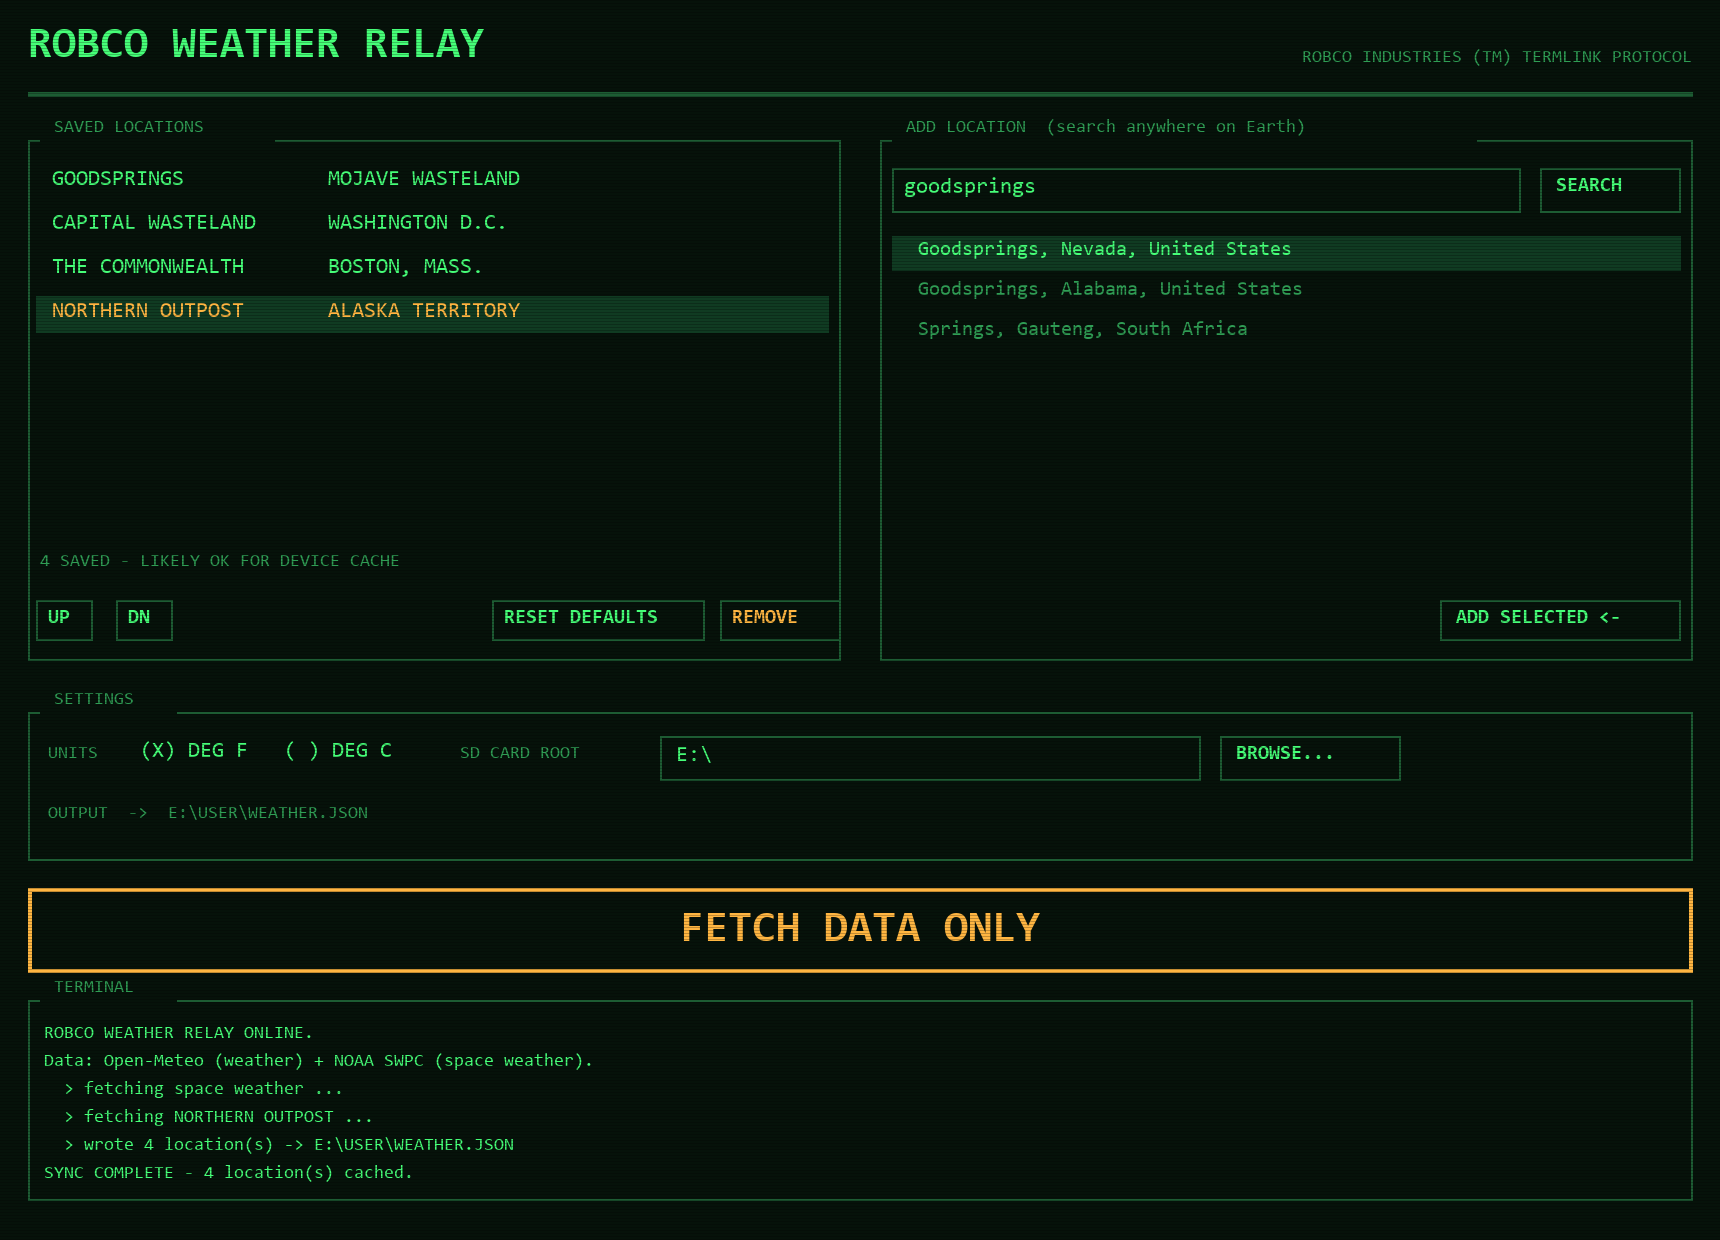
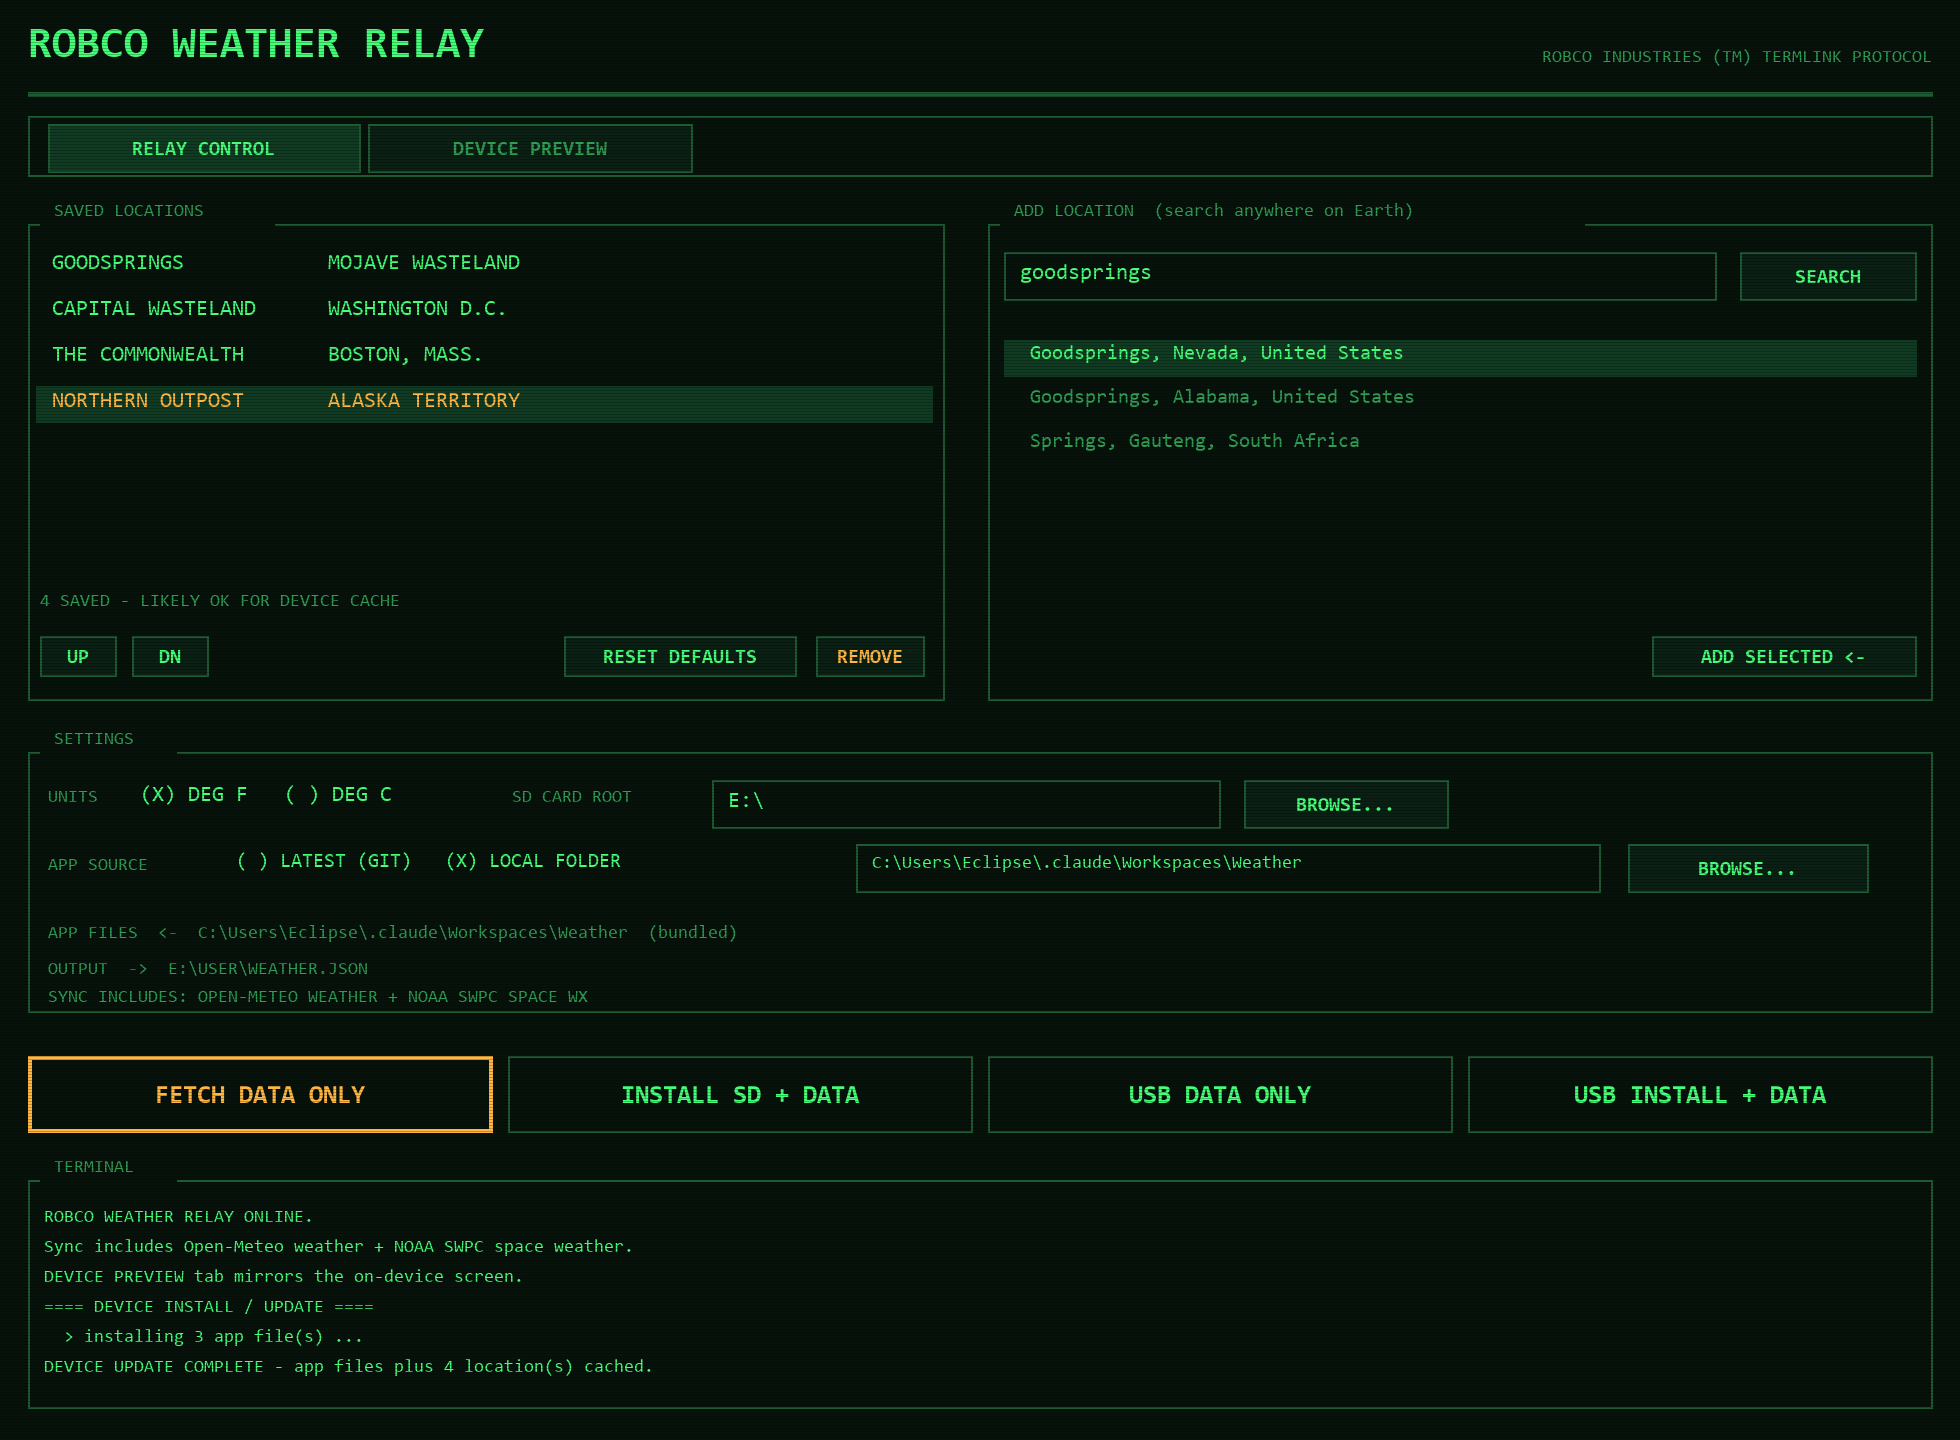
Update documentation previews

diff --git a/companion/render_preview.py b/companion/render_preview.py
@@ -538,11 +538,12 @@ def render_device(data, loc_i, view, caption, stale=False, item_mode=False, item
 # --------------------------------------------------------------- GUI mockup
 def render_gui():
     s = 2
-    W, H = 860 * s, 620 * s
+    W, H = 980 * s, 720 * s
     BGc, PANEL, EDGE, GREEN, DIMc, AMB, SELc = ((6, 18, 10), (11, 32, 20), (29, 92, 51),
         (70, 255, 120), (47, 157, 84), (255, 182, 66), (16, 59, 34))
     img = Image.new("RGB", (W, H), BGc)
     d = ImageDraw.Draw(img)
+    w = W / s
 
     def t(txt, x, y, size, fill=GREEN, bold=False, anchor="la"):
         d.text((x * s, y * s), txt, font=font(size * s, bold), fill=fill, anchor=anchor)
@@ -552,73 +553,94 @@ def render_gui():
         d.rectangle([(x0 + 6) * s, (y0 - 7) * s, (x0 + 18 + len(label) * 7) * s, (y0 + 4) * s], fill=BGc)
         t(" " + label + " ", x0 + 8, y0 - 11, 9, fill=DIMc)
 
+    def button(x0, y0, x1, y1, label, fill=GREEN, bold=True, selected=False):
+        d.rectangle([x0 * s, y0 * s, x1 * s, y1 * s],
+                    fill=SELc if selected else PANEL, outline=EDGE, width=s)
+        t(label, (x0 + x1) / 2, (y0 + y1) / 2 + 1, 10, fill=fill,
+          bold=bold, anchor="mm")
+
     # header
     t("ROBCO WEATHER RELAY", 14, 12, 22, bold=True)
-    t("ROBCO INDUSTRIES (TM) TERMLINK PROTOCOL", W / s - 14, 24, 9,
+    t("ROBCO INDUSTRIES (TM) TERMLINK PROTOCOL", w - 14, 24, 9,
       fill=DIMc, anchor="ra")
-    d.rectangle([14 * s, 46 * s, (W / s - 14) * s, 48 * s], fill=EDGE)
+    d.rectangle([14 * s, 46 * s, (w - 14) * s, 48 * s], fill=EDGE)
+
+    # notebook tabs
+    d.rectangle([14 * s, 58 * s, (w - 14) * s, 88 * s], outline=EDGE, width=s)
+    button(24, 62, 180, 86, "RELAY CONTROL", selected=True)
+    button(184, 62, 346, 86, "DEVICE PREVIEW", fill=DIMc, selected=False)
 
     # saved locations panel
-    panel(14, 70, 420, 330, "SAVED LOCATIONS")
+    panel(14, 112, 472, 350, "SAVED LOCATIONS")
     locs = ["GOODSPRINGS            MOJAVE WASTELAND",
             "CAPITAL WASTELAND      WASHINGTON D.C.",
             "THE COMMONWEALTH       BOSTON, MASS.",
             "NORTHERN OUTPOST       ALASKA TERRITORY"]
     for i, l in enumerate(locs):
-        yy = 84 + i * 22
+        yy = 126 + i * 23
         if i == 3:
-            d.rectangle([18 * s, (yy - 2) * s, 414 * s, (yy + 16) * s], fill=SELc)
+            d.rectangle([18 * s, (yy - 2) * s, 466 * s, (yy + 16) * s], fill=SELc)
         t(" " + l, 20, yy, 11, fill=(AMB if i == 3 else GREEN))
-    t("4 SAVED - LIKELY OK FOR DEVICE CACHE", 20, 276, 9, fill=DIMc)
-    for bx, lbl, bw, col in [(18, "UP", 28, GREEN), (58, "DN", 28, GREEN),
-                             (246, "RESET DEFAULTS", 106, GREEN),
-                             (360, "REMOVE", 60, AMB)]:
-        d.rectangle([bx * s, 300 * s, (bx + bw) * s, 320 * s], outline=EDGE, width=s)
-        t(lbl, bx + 6, 304, 10, fill=col, bold=True)
+    t("4 SAVED - LIKELY OK FOR DEVICE CACHE", 20, 296, 9, fill=DIMc)
+    button(20, 318, 58, 338, "UP")
+    button(66, 318, 104, 338, "DN")
+    button(282, 318, 398, 338, "RESET DEFAULTS")
+    button(408, 318, 462, 338, "REMOVE", fill=AMB)
 
     # add location panel
-    panel(440, 70, 846, 330, "ADD LOCATION  (search anywhere on Earth)")
-    d.rectangle([446 * s, 84 * s, 760 * s, 106 * s], outline=EDGE, width=s)
-    t("goodsprings", 452, 88, 11)
-    d.rectangle([770 * s, 84 * s, 840 * s, 106 * s], outline=EDGE, width=s)
-    t("SEARCH", 778, 88, 10, bold=True)
+    panel(494, 112, 966, 350, "ADD LOCATION  (search anywhere on Earth)")
+    d.rectangle([502 * s, 126 * s, 858 * s, 150 * s], outline=EDGE, width=s)
+    t("goodsprings", 510, 131, 11)
+    button(870, 126, 958, 150, "SEARCH")
     results = ["Goodsprings, Nevada, United States",
                "Goodsprings, Alabama, United States",
                "Springs, Gauteng, South Africa"]
     for i, r in enumerate(results):
-        yy = 120 + i * 20
+        yy = 172 + i * 22
         if i == 0:
-            d.rectangle([446 * s, (yy - 2) * s, 840 * s, (yy + 15) * s], fill=SELc)
-        t("  " + r, 448, yy, 10, fill=(GREEN if i == 0 else DIMc))
-    d.rectangle([720 * s, 300 * s, 840 * s, 320 * s], outline=EDGE, width=s)
-    t("ADD SELECTED <-", 728, 304, 10, bold=True)
+            d.rectangle([502 * s, (yy - 2) * s, 958 * s, (yy + 16) * s], fill=SELc)
+        t("  " + r, 504, yy, 10, fill=(GREEN if i == 0 else DIMc))
+    button(826, 318, 958, 338, "ADD SELECTED <-")
 
     # settings
-    panel(14, 356, 846, 430, "SETTINGS")
-    t("UNITS", 24, 372, 9, fill=DIMc)
-    t("(X) DEG F   ( ) DEG C", 70, 370, 11)
-    t("SD CARD ROOT", 230, 372, 9, fill=DIMc)
-    d.rectangle([330 * s, 368 * s, 600 * s, 390 * s], outline=EDGE, width=s)
-    t("E:\\", 338, 372, 11)
-    d.rectangle([610 * s, 368 * s, 700 * s, 390 * s], outline=EDGE, width=s)
-    t("BROWSE...", 618, 372, 10, bold=True)
-    t("OUTPUT  ->  E:\\USER\\WEATHER.JSON", 24, 402, 9, fill=DIMc)
+    panel(14, 376, 966, 506, "SETTINGS")
+    t("UNITS", 24, 394, 9, fill=DIMc)
+    t("(X) DEG F   ( ) DEG C", 70, 392, 11)
+    t("SD CARD ROOT", 256, 394, 9, fill=DIMc)
+    d.rectangle([356 * s, 390 * s, 610 * s, 414 * s], outline=EDGE, width=s)
+    t("E:\\", 364, 395, 11)
+    button(622, 390, 724, 414, "BROWSE...")
+    t("APP SOURCE", 24, 428, 9, fill=DIMc)
+    t("( ) LATEST (GIT)   (X) LOCAL FOLDER", 118, 426, 10)
+    d.rectangle([428 * s, 422 * s, 800 * s, 446 * s], outline=EDGE, width=s)
+    t("C:\\Users\\Eclipse\\.claude\\Workspaces\\Weather", 436, 427, 9)
+    button(814, 422, 934, 446, "BROWSE...")
+    t("APP FILES  <-  C:\\Users\\Eclipse\\.claude\\Workspaces\\Weather  (bundled)",
+      24, 462, 9, fill=DIMc)
+    t("OUTPUT  ->  E:\\USER\\WEATHER.JSON", 24, 480, 9, fill=DIMc)
+    t("SYNC INCLUDES: OPEN-METEO WEATHER + NOAA SWPC SPACE WX", 24, 494, 9, fill=DIMc)
 
-    # fetch button
-    d.rectangle([14 * s, 444 * s, 846 * s, 486 * s], outline=AMB, width=2 * s)
-    t("FETCH DATA ONLY", W / (2 * s), 465, 22, fill=AMB, bold=True,
-      anchor="mm")
+    # shared action bar
+    labels = [("FETCH DATA ONLY", AMB), ("INSTALL SD + DATA", GREEN),
+              ("USB DATA ONLY", GREEN), ("USB INSTALL + DATA", GREEN)]
+    x0, gap = 14, 8
+    bw = (w - 28 - gap * 3) / 4
+    for i, (label, col) in enumerate(labels):
+        bx = x0 + i * (bw + gap)
+        d.rectangle([bx * s, 528 * s, (bx + bw) * s, 566 * s],
+                    outline=AMB if i == 0 else EDGE, width=2 * s if i == 0 else s)
+        t(label, bx + bw / 2, 548, 13, fill=col, bold=True, anchor="mm")
 
     # terminal log
-    panel(14, 500, 846, 600, "TERMINAL")
+    panel(14, 590, 966, 704, "TERMINAL")
     log = ["ROBCO WEATHER RELAY ONLINE.",
-           "Data: Open-Meteo (weather) + NOAA SWPC (space weather).",
-           "  > fetching space weather ...",
-           "  > fetching NORTHERN OUTPOST ...",
-           "  > wrote 4 location(s) -> E:\\USER\\WEATHER.JSON",
-           "SYNC COMPLETE - 4 location(s) cached."]
+           "Sync includes Open-Meteo weather + NOAA SWPC space weather.",
+           "DEVICE PREVIEW tab mirrors the on-device screen.",
+           "==== DEVICE INSTALL / UPDATE ====",
+           "  > installing 3 app file(s) ...",
+           "DEVICE UPDATE COMPLETE - app files plus 4 location(s) cached."]
     for i, line in enumerate(log):
-        t(line, 22, 512 + i * 14, 9, fill=GREEN)
+        t(line, 22, 604 + i * 15, 9, fill=GREEN)
 
     return scanlines(img)
 

diff --git a/README.md b/README.md
@@ -52,17 +52,22 @@ the latest app files when they are missing.
 ## Previews
 
 The preview images are generated from `sample/WEATHER.JSON` by
-`companion/render_preview.py`.
+`companion/render_preview.py`:
 
-| Current | Forecast |
-| --- | --- |
-| ![Current conditions](previews/01_current.png) | ![Forecast](previews/02_forecast.png) |
+```bash
+python companion/render_preview.py
+```
+
+| Current | Forecast | Current + Solar |
+| --- | --- | --- |
+| ![Current conditions](previews/01_current.png) | ![Forecast](previews/02_forecast.png) | ![Current conditions with solar activity](previews/04_current_solar.png) |
 
 | Space Weather | Stale Cache |
 | --- | --- |
 | ![Space weather](previews/03_space_weather.png) | ![Stale warning](previews/05_stale_warning.png) |
 
-Companion GUI:
+Companion GUI with the relay control tab, app source controls, shared sync
+action bar, and terminal log:
 
 ![Companion GUI](previews/06_companion_gui.png)
 